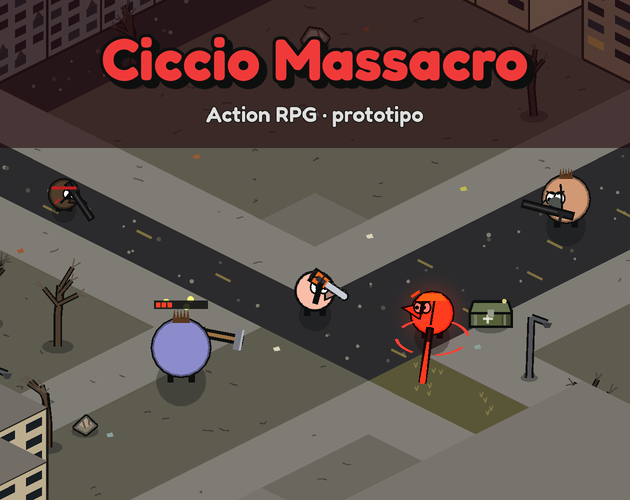
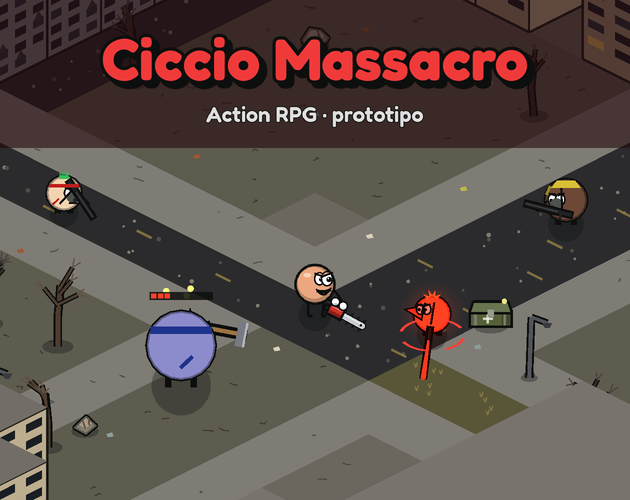
Devlog e copertine: il nuovo Ciccio dal disegno di Valentina
Voce in cima al devlog (italiano e inglese) per la nuova grafica di Ciccio
e copertine della scheda in home rigenerate dal gioco.

Claude-Session: https://claude.ai/code/session_01CG3rgBt8Pj7zVmSvLcWtQN

diff --git a/public/assets/devlog.js b/public/assets/devlog.js
@@ -14,6 +14,30 @@ export const PROGETTI = {
 
 export const DEVLOG = [
   {
+    id: "2026-10-31-ciccio-nuovo-look",
+    data: "2026-10-31",
+    progetto: "ciccio",
+    titolo: { it: "Ciccio ha una faccia nuova", en: "Cheech gets a new face" },
+    punti: {
+      it: [
+        "Il nuovo Ciccio nasce da un disegno di Valentina: una palla color pesca con gli occhioni cattivi e un ghigno pieno di denti, braccia e gambe lunghe come linee e i guanti bianchi.",
+        "La motosega è rossa, con la maniglia nera e i denti a punta che girano.",
+        "Il ghigno si spalanca negli attacchi e nello slam, e ogni tanto Ciccio sbatte le palpebre.",
+        "Niente più naso: dove guarda lo dice la faccia, che resta sempre ben visibile anche mentre mena colpi.",
+        "Nello slam la motosega sale dietro la testa e cala di lato con tutto il peso del corpo.",
+        "Anche il ritratto in alto a sinistra ha la faccia nuova.",
+      ],
+      en: [
+        "The new Cheech comes from a drawing by Valentina: a peach-colored ball with big mean eyes and a toothy grin, long line arms and legs and white gloves.",
+        "The chainsaw is red, with a black handle and spiky teeth that spin.",
+        "The grin opens wide when he attacks and slams, and every now and then Cheech blinks.",
+        "No more nose: his face shows where he's looking, and it always stays clearly visible, even mid-swing.",
+        "In the slam the chainsaw goes up behind his head and comes down from the side with all his weight.",
+        "The portrait in the top left has the new face too.",
+      ],
+    },
+  },
+  {
     id: "2026-10-31-sito-analytics",
     data: "2026-10-31",
     progetto: "sito",
